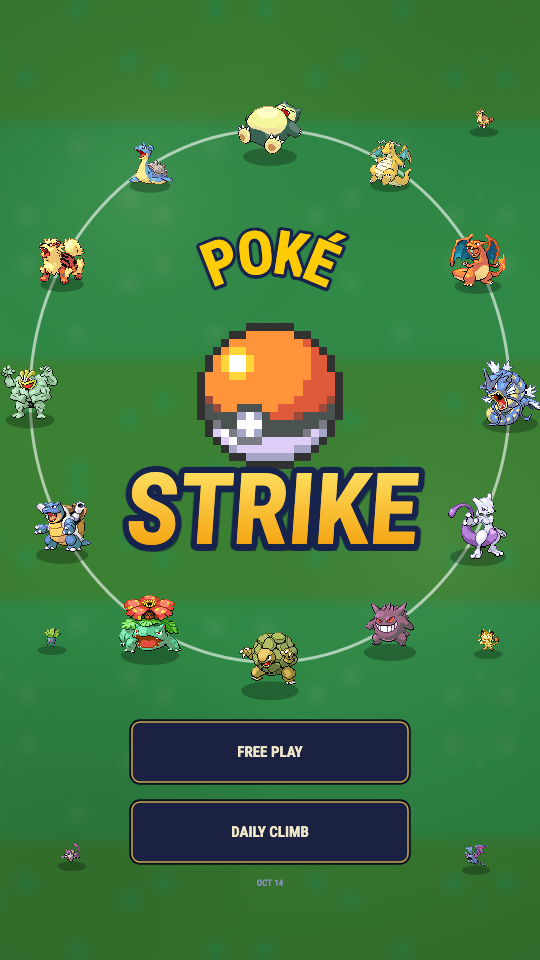
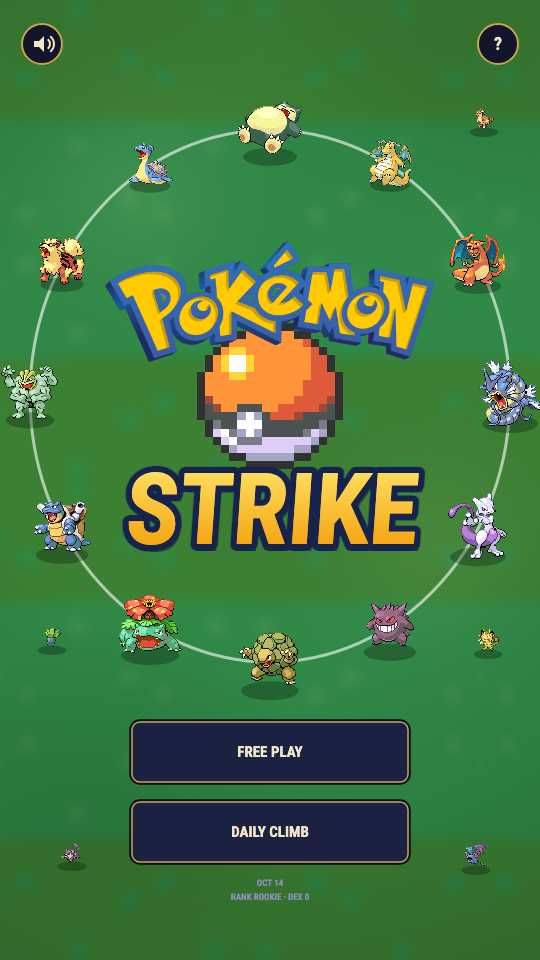
Region map between stages — porygion's generator ported
- src/game/map.ts: seeded island generation after porygion — 3-octave
  value-noise elevation (water/land/mountain), one stop per row-band on
  land south->north, Manhattan L-routes carved between stops
- src/game/maptiles.ts: terrain/landmark slices found in the gracidea
  tileset (sea, grass, dirt path, boulder field, house, gym building)
- battle.ts: new 'map' phase — the run opens on the region and every
  relic pick walks the route to the next stop; cleared stops dim with a
  check, the next stop pulses (red when the elite road was taken), gym
  stops show the gym sprite
- seeded off the run rng, so daily climbs get identical islands

diff --git a/src/game/battle.ts b/src/game/battle.ts
@@ -8,6 +8,9 @@ import type { Rarity } from './perks';
 import { drawBackdrop, drawWall, THEMES } from './bg';
 import type { Theme } from './bg';
 import { effectiveness, TYPE_COLOR } from './types';
+import { genRegion, RegionMap, MAP_W, MAP_H, drawTile } from './map';
+import * as MT from './maptiles';
+import { gracidea } from '../core/assets';
 import type { PokeType } from './types';
 import {
   playerHp,
@@ -158,7 +161,7 @@ interface Scar {
   t: number;
   life: number;
 }
-export type Phase = 'aim' | 'shot' | 'enemy' | 'reward' | 'won' | 'lost';
+export type Phase = 'aim' | 'shot' | 'enemy' | 'reward' | 'map' | 'won' | 'lost';
 
 const STOP_SPEED = 45;
 const FINAL_DEPTH = TOTAL_STAGES - 3; // rolled stages: 4..9 are depths 1..6
@@ -221,6 +224,8 @@ export class Battle {
   private shotHitN = new Map<number, number>(); // per-enemy hits this shot (decay)
   private waveHadGym = false; // scheduled boss wave — gymsBeaten accounting
   private inRival = false; // this wave is the rival echo fight
+  private region: RegionMap; // the climb's world map — drawn between stages
+  private pendingNext = 0; // wave the map interstitial leads into
   private shake = 0;
   private hitStop = 0; // brief slow-mo on combo hits
   // relic mods
@@ -328,7 +333,9 @@ export class Battle {
         hzT: -9,
       });
     });
+    this.region = genRegion(Math.floor(this.rng() * 2 ** 31));
     this.spawnWave(0);
+    this.phase = 'map'; // the climb starts on the region map, not mid-wave
   }
 
   get active(): Unit {
@@ -438,6 +445,14 @@ export class Battle {
   // --- input (logical coords) ---
 
   pointerDown(p: Vec) {
+    if (this.phase === 'map') {
+      // advance the route: wave 0 was spawned at construction, the rest
+      // spawn as the marker arrives
+      sfx('ui');
+      if (this.pendingNext > this.waveIndex) this.spawnWave(this.pendingNext);
+      this.nextTurn();
+      return;
+    }
     if (this.phase !== 'aim') return;
     this.dragging = true;
     this.dragT = 0;
@@ -1506,8 +1521,8 @@ export class Battle {
       this.pathElite = false;
       this.stage.waves.push(rollWave(this.rng, this.depth, this.eliteWave, this.stage.theme));
     }
-    this.spawnWave(next);
-    this.nextTurn();
+    this.pendingNext = next;
+    this.phase = 'map'; // walk the route to the next stage first
   }
 
   // RNGdle-style run analysis: scan what the run did, award badges with
@@ -1755,6 +1770,10 @@ export class Battle {
   // --- rendering ---
 
   render(ctx: CanvasRenderingContext2D) {
+    if (this.phase === 'map') {
+      this.drawRegion(ctx);
+      return;
+    }
     const a = this.arena;
 
     ctx.save();
@@ -1914,6 +1933,87 @@ export class Battle {
       ctx.fillText(label, a.x + a.w / 2, cy + 12);
       ctx.globalAlpha = 1;
     }
+  }
+
+  // The climb as a porygion-style region: 9 stops south→north on a seeded
+  // island, the marker pulsing on the stage you're about to walk into.
+  private drawRegion(ctx: CanvasRenderingContext2D) {
+    ctx.fillStyle = '#0a0e1c';
+    ctx.fillRect(0, 0, 540, 960);
+    ctx.textAlign = 'center';
+    ctx.font = font(18);
+    ctx.fillStyle = '#f8d030';
+    ctx.fillText(this.stage.name.toUpperCase(), 270, 78);
+    ctx.font = font(9);
+    ctx.fillStyle = '#8890b8';
+    ctx.fillText(`STAGE ${this.pendingNext + 1} OF ${TOTAL_STAGES}`, 270, 98);
+
+    const cell = 30;
+    const ox = (540 - MAP_W * cell) / 2;
+    const oy = 130;
+    const e = this.region.elev;
+    const img = gracidea();
+    const flat = (c: string, x: number, y: number) => {
+      ctx.fillStyle = c;
+      ctx.fillRect(ox + x * cell, oy + y * cell, cell, cell);
+    };
+    for (let y = 0; y < MAP_H; y++) {
+      for (let x = 0; x < MAP_W; x++) {
+        const i = y * MAP_W + x;
+        const v = e[i];
+        const px = ox + x * cell, py = oy + y * cell;
+        if (this.region.route.has(i)) {
+          if (img) drawTile(ctx, MT.TILE_PATH, px, py, cell, cell);
+          else flat('#c8a868', x, y);
+        } else if (v < 0) {
+          if (img) drawTile(ctx, MT.TILE_WATER, px, py, cell, cell);
+          else flat('#3060b0', x, y);
+        } else if (v > 0.55) {
+          if (img) drawTile(ctx, MT.TILE_MOUNTAIN, px, py, cell, cell);
+          else flat('#6a5a48', x, y);
+        } else {
+          if (img) drawTile(ctx, MT.TILE_GRASS, px, py, cell, cell);
+          else flat('#4c9844', x, y);
+        }
+      }
+    }
+    // stops: cleared dim out, the next one pulses (red if the elite road
+    // was taken at the last reward)
+    this.region.nodes.forEach((n, i) => {
+      const nx = ox + n.tx * cell + cell / 2;
+      const ny = oy + n.ty * cell + cell / 2;
+      const cleared = i < this.pendingNext;
+      const current = i === this.pendingNext;
+      const icon = n.kind === 'gym' ? MT.TILE_GYM : MT.TILE_TOWN;
+      if (icon) drawTile(ctx, icon, nx - cell, ny - cell * 1.35, cell * 2, cell * 2);
+      ctx.globalAlpha = cleared ? 0.4 : current ? 1 : 0.55;
+      ctx.strokeStyle = current ? (this.eliteWave ? '#ff6b6b' : '#ffd84d') : '#c8d0e8';
+      ctx.lineWidth = current ? 3 : 2;
+      ctx.beginPath();
+      ctx.arc(nx, ny, cell * (current ? 0.6 + Math.sin(this.time * 5) * 0.08 : 0.42), 0, Math.PI * 2);
+      ctx.stroke();
+      if (cleared) {
+        ctx.font = font(10);
+        ctx.fillStyle = '#6fdc6f';
+        ctx.fillText('✓', nx, ny + 4);
+      }
+      ctx.globalAlpha = 1;
+      if (current) {
+        ctx.font = font(8);
+        ctx.strokeStyle = '#000';
+        ctx.lineWidth = 3;
+        const label = n.kind === 'gym' ? 'GYM' : this.eliteWave ? 'ELITE' : 'NEXT';
+        ctx.strokeText(label, nx, ny - cell * 1.1);
+        ctx.fillStyle = '#ffd84d';
+        ctx.fillText(label, nx, ny - cell * 1.1);
+      }
+    });
+    ctx.strokeStyle = '#2a3560';
+    ctx.lineWidth = 3;
+    ctx.strokeRect(ox - 8, oy - 8, MAP_W * cell + 16, MAP_H * cell + 16);
+    ctx.font = font(9);
+    ctx.fillStyle = '#8890b8';
+    ctx.fillText('tap to continue', 270, oy + MAP_H * cell + 46);
   }
 
   // Hazard zones are gameplay overlays (like the court paint), not

diff --git a/src/game/map.ts b/src/game/map.ts
@@ -1,0 +1,131 @@
+// Region map generator — a port of porygion's algorithm (MIT,
+// github.com/huderlem/porygion) to the climb: 3-octave value noise for
+// elevation (water < 0, land, mountain > 0.55), one node per row-band on
+// land south→north, Manhattan L-routes between consecutive nodes.
+import { mulberry32 } from '../core/rng';
+import { gracidea } from '../core/assets';
+import { TOTAL_STAGES } from './data';
+
+export const MAP_W = 16;
+export const MAP_H = 22;
+
+export type NodeKind = 'start' | 'wild' | 'gym';
+export interface MapNode {
+  tx: number;
+  ty: number;
+  kind: NodeKind;
+}
+export interface RegionMap {
+  elev: Float32Array; // MAP_W*MAP_H — <0 water, >0.55 mountain
+  nodes: MapNode[]; // TOTAL_STAGES stops, nodes[0] is the southern start
+  route: Set<number>; // tile indices carved between nodes
+}
+
+// Seeded value noise (0..1) — smooth-interpolated lattice hashes; stands in
+// for porygion's opensimplex octaves.
+const h2 = (x: number, y: number, s: number) => {
+  const n = Math.sin(x * 127.1 + y * 311.7 + s * 74.7) * 43758.5453;
+  return n - Math.floor(n);
+};
+const fade = (t: number) => t * t * (3 - 2 * t);
+const vn = (x: number, y: number, s: number) => {
+  const xi = Math.floor(x), yi = Math.floor(y);
+  const xf = fade(x - xi), yf = fade(y - yi);
+  const a = h2(xi, yi, s), b = h2(xi + 1, yi, s), c = h2(xi, yi + 1, s), d = h2(xi + 1, yi + 1, s);
+  return (a + (b - a) * xf) * (1 - yf) + (c + (d - c) * yf) * yf;
+};
+
+export function genRegion(seed: number): RegionMap {
+  const rng = mulberry32(seed);
+  const elev = new Float32Array(MAP_W * MAP_H);
+  // porygion's octave recipe: broad base (+0.2 keeps it mostly land),
+  // medium detail, jitter modulated by a slow coefficient field
+  for (let y = 0; y < MAP_H; y++) {
+    for (let x = 0; x < MAP_W; x++) {
+      const base = vn(x / 6.5, y / 6.5, 0) * 2 - 1 + 0.2;
+      const detail = (vn(x / 2.5, y / 2.5, 1) * 2 - 1) * 0.15;
+      const jitter = (vn(x / 1.4, y / 1.4, 2) * 2 - 1) * ((vn(x / 4.5, y / 4.5, 3) * 2 - 1) * 0.6);
+      // pull the far edges underwater so the region reads as an island
+      const edge = Math.min(x, MAP_W - 1 - x, y, MAP_H - 1 - y);
+      elev[y * MAP_W + x] = base + detail + jitter - Math.max(0, 1.6 - edge) * 0.5;
+    }
+  }
+  const land = (x: number, y: number) =>
+    x >= 0 && x < MAP_W && y >= 0 && y < MAP_H && elev[y * MAP_W + x] >= 0 && elev[y * MAP_W + x] <= 0.55;
+
+  // One node per row-band, alternating left/right halves so the path
+  // zigzags south→north; each lands on the nearest valid grass tile.
+  const nodes: MapNode[] = [];
+  for (let i = 0; i < TOTAL_STAGES; i++) {
+    const band = i / (TOTAL_STAGES - 1);
+    const cy = Math.round(MAP_H - 2 - band * (MAP_H - 4));
+    const mid = i % 2 === 0 ? MAP_W * 0.3 : MAP_W * 0.7;
+    let best: MapNode | null = null, bd = 1e9;
+    for (let dy = -2; dy <= 2; dy++) {
+      for (let x = 1; x < MAP_W - 1; x++) {
+        if (!land(x, cy + dy)) continue;
+        const d = Math.abs(x - mid) + Math.abs(dy) * 1.5 + rng() * 2;
+        if (d < bd) { bd = d; best = { tx: x, ty: cy + dy, kind: 'wild' }; }
+      }
+    }
+    nodes.push(best ?? { tx: Math.round(mid), ty: Math.max(1, Math.min(MAP_H - 2, cy)), kind: 'wild' });
+  }
+  nodes[0].kind = 'start';
+  for (const i of [2, 5, 8]) if (nodes[i]) nodes[i].kind = 'gym';
+
+  // Manhattan L-routes — random corner order, porygion's connectCities
+  const route = new Set<number>();
+  const carve = (a: MapNode, b: MapNode) => {
+    const hFirst = rng() < 0.5;
+    const seg = (x1: number, y1: number, x2: number, y2: number) => {
+      const dx = Math.sign(x2 - x1), dy = Math.sign(y2 - y1);
+      while (x1 !== x2 || y1 !== y2) {
+        route.add(y1 * MAP_W + x1);
+        x1 += dx * (x1 !== x2 ? 1 : 0);
+        y1 += dy * (x1 === x2 ? 1 : 0);
+      }
+      route.add(y2 * MAP_W + x2);
+    };
+    if (hFirst) { seg(a.tx, a.ty, b.tx, a.ty); seg(b.tx, a.ty, b.tx, b.ty); }
+    else { seg(a.tx, a.ty, a.tx, b.ty); seg(a.tx, b.ty, b.tx, b.ty); }
+  };
+  for (let i = 1; i < nodes.length; i++) carve(nodes[i - 1], nodes[i]);
+
+  return { elev, nodes, route };
+}
+
+// --- tile drawing: keyed gracidea slices, cached per rect (same magenta-
+// family test as bg.ts — terrain tiles are opaque but buildings aren't)
+const tileCache = new Map<string, HTMLCanvasElement>();
+export function drawTile(
+  ctx: CanvasRenderingContext2D,
+  s: readonly [number, number, number, number],
+  dx: number,
+  dy: number,
+  dw: number,
+  dh: number,
+) {
+  const img = gracidea();
+  if (!img) return;
+  const k = s.join(',');
+  let c = tileCache.get(k);
+  if (!c) {
+    c = document.createElement('canvas');
+    c.width = s[2];
+    c.height = s[3];
+    const g = c.getContext('2d')!;
+    g.drawImage(img, s[0], s[1], s[2], s[3], 0, 0, s[2], s[3]);
+    const id = g.getImageData(0, 0, s[2], s[3]);
+    const d = id.data;
+    for (let i = 0; i < d.length; i += 4) {
+      const r = d[i], gg = d[i + 1], b = d[i + 2];
+      if (r > 140 && b > 110 && gg < 120 && r - gg > 50 && b - gg > 40) d[i + 3] = 0;
+    }
+    g.putImageData(id, 0, 0);
+    tileCache.set(k, c);
+  }
+  ctx.save();
+  ctx.imageSmoothingEnabled = false;
+  ctx.drawImage(c, dx, dy, dw, dh);
+  ctx.restore();
+}

diff --git a/src/game/maptiles.ts b/src/game/maptiles.ts
@@ -1,0 +1,10 @@
+// Terrain + landmark slices in tileset.webp (eyeballed — see tileset.json for grid).
+// Frames are 16x16 on an 18px pitch: frame (col,row) sits at x=1+col*18, y=1+row*18.
+export type Slice = readonly [number, number, number, number];
+export const TILE_WATER: Slice = [145, 361, 16, 16]; // flat sea water, faint wave streaks
+export const TILE_GRASS: Slice = [55, 325, 16, 16]; // mid-green blade grass
+export const TILE_PATH: Slice = [289, 109, 16, 16]; // flat brown dirt
+export const TILE_MOUNTAIN: Slice = [302, 123, 50, 56]; // chunky tan boulder pile
+export const TILE_TOWN: Slice = [402, 452, 72, 76]; // timber-frame house: shingle roof, door, window
+export const TILE_GYM: Slice = [545, 0, 104, 92]; // big gym building, "GYM" sign + blue doors
+export const TILE_SAND: Slice | null = [91, 667, 16, 16]; // pale beach sand with wave marks

diff --git a/src/game/screens.ts b/src/game/screens.ts
@@ -305,7 +305,9 @@ export function drawTitle(ctx: CanvasRenderingContext2D) {
     ctx.drawImage(ball, cx - 122, cy - 122, 244, 244);
     ctx.restore();
   }
-  logoArc(ctx, 'POKÉ', cx, cy + 100, 190, 86);
+  // the real wordmark — vendored logo art, already arched, rides the ball top
+  const logo = itemSprite('ui/pokemon-logo');
+  if (logo) ctx.drawImage(logo, cx - 165, cy - 155, 330, 121);
   logoBig(ctx, 'STRIKE', cx, cy + 148, 86, 440);
 
   // stadium shadow at the edges keeps the eye on the crest
